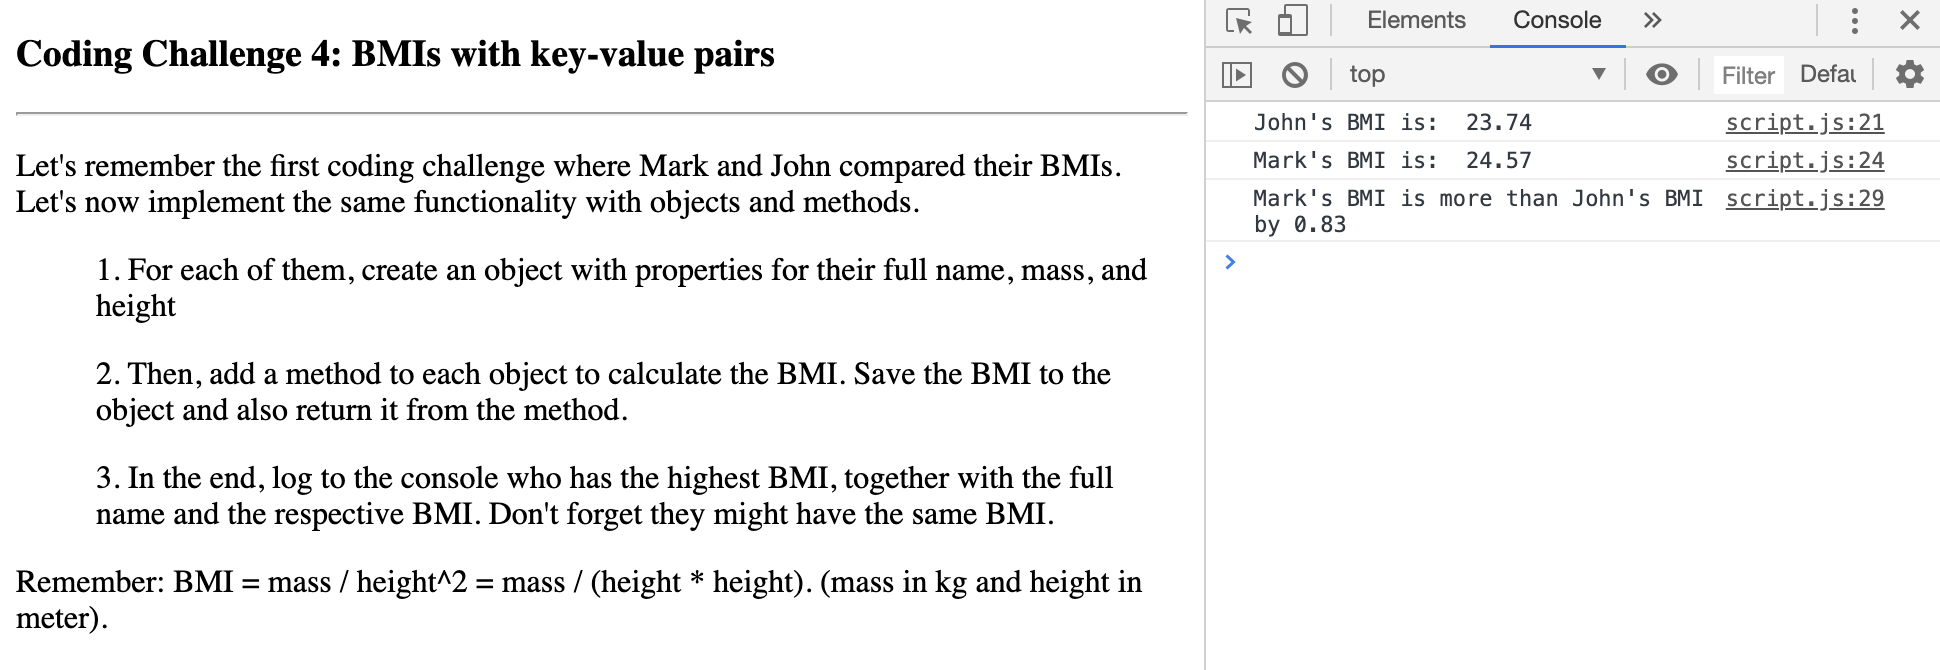
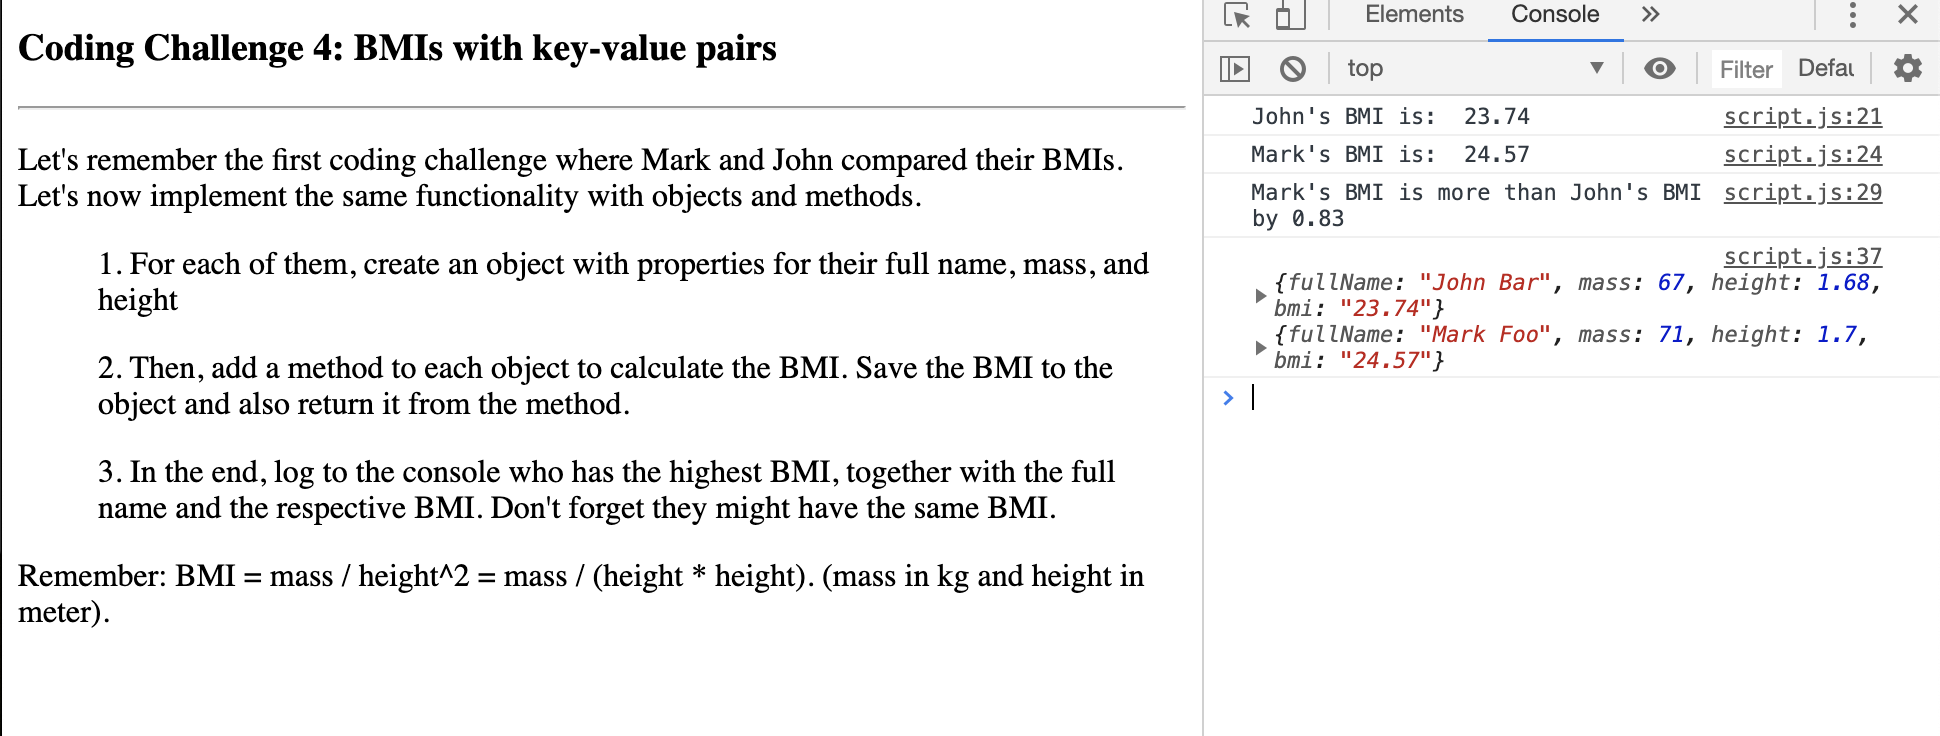
pushed BMI to relative object

Changed region(s): [[0.0, 0.209, 0.5876, 0.9552], [0.0, 0.0, 1.0, 0.5075], [0.6186, 0.5075, 0.6495, 0.5672]]

diff --git a/JS-Basics/Coding-Challenge-4/script.js b/JS-Basics/Coding-Challenge-4/script.js
@@ -30,3 +30,8 @@ if (johnBMI > markBMI) {
 } else {
     console.log('Mark and John have the same BMI');
 };
+
+//push each BMI to person's object
+john.bmi = johnBMI;
+mark.bmi= markBMI;
+console.log(john, mark);
